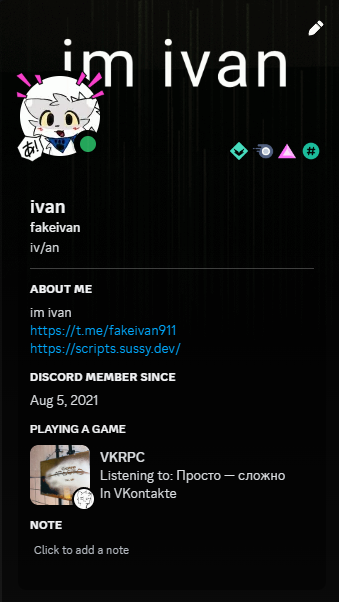
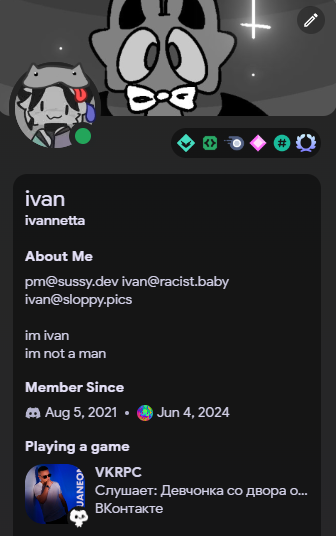
RPC, revival

diff --git a/RPC.py b/RPC.py
@@ -69,7 +69,7 @@ def set_cmd_window_size(width, height):
     ctypes.windll.kernel32.SetConsoleWindowInfo(handle, True, ctypes.byref(rect))
 
 
-width, height = 43, 21
+width, height = 70, 21
 set_cmd_window_size(width, height)
 
 RPC = Presence(client_id="1184547216287862844")
@@ -121,8 +121,8 @@ while True:
                 )
 
                 if match:
-                    artist = match.group(4)
-                    title = match.group(1)
+                    artist = match.group(1)
+                    title = match.group(4)
                     duration = match.group(5)
                     audio_id = match.group(2)
                     owner_id = match.group(3)

diff --git a/README.md b/README.md
@@ -1,7 +1,7 @@
 # VkRPC
 
 A simple script to show VK music on Discord RPC, Простой скрипт для отображения музыки ВКонтакте в Discord RPC.
-
+Unlike most scripts, you dont need to mess around with VK bots and stuff, В отличие от большинства скриптов, вам не нужно возиться с ботами ВК и прочим.
 ![Example](/image/image.png?raw=true "Example")
 
 
